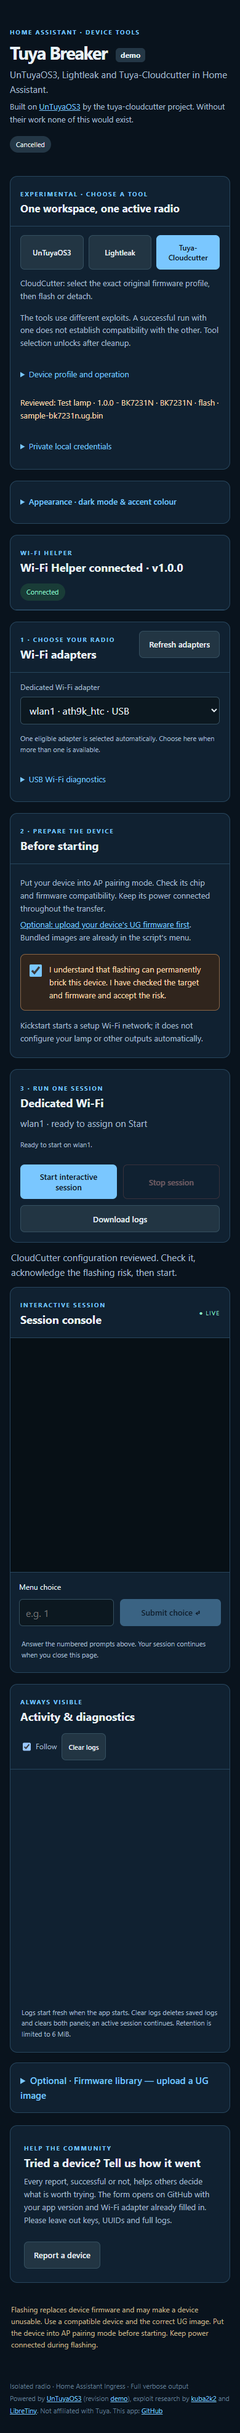
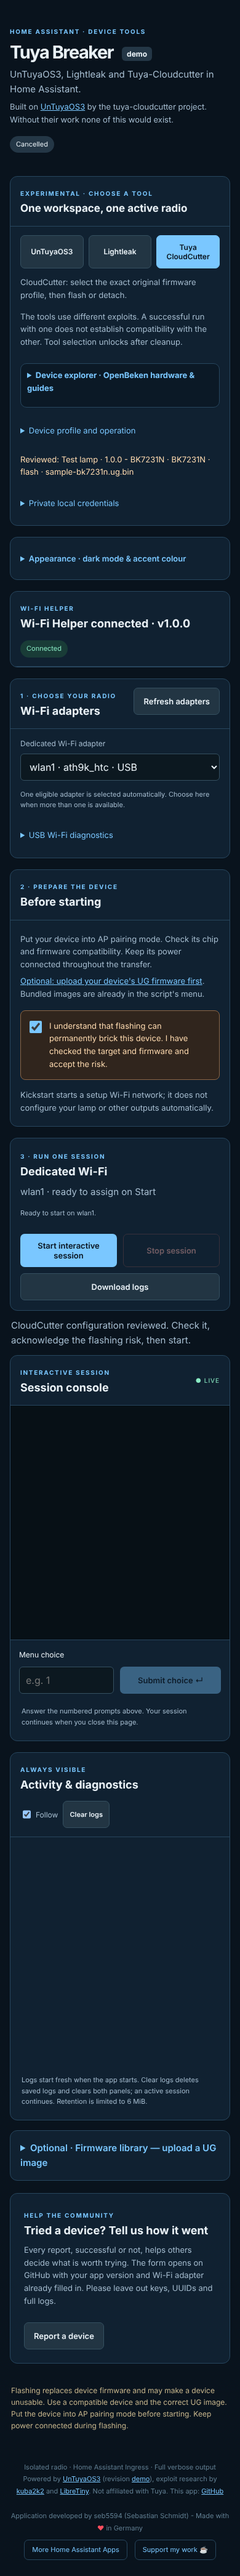
Switch to calendar versioning and unify the shared hardware explorer
- Version scheme moves from SemVer-style beta numbers to calendar
  versioning (YYYY.MM.DD, with an additive .2, .3, ... suffix for a
  same-day rebuild), starting at 2026.11.10.
- The OpenBeken hardware explorer is now a shared, always-visible
  reference panel instead of being nested only inside the CloudCutter
  tab, since chip/module identification is useful before choosing any
  of the three tools.
- "Find CloudCutter profiles" now switches to the CloudCutter tab by
  itself, reusing the existing tab-switch handler, instead of requiring
  a manual tab switch first.
- Remove a dead, overridden .tool-tabs CSS rule and align the
  CloudCutter tab label with the name used elsewhere in the app
  ("Tuya CloudCutter").
- Update the WebUI/Playwright check and refresh its screenshots for the
  new layout.

Verified: tools/sync_project.py --check, the full Python test suite
(116 tests, including the CloudCutter catalogue/controller tests),
tests/test_webui.cjs, and tools/check_breaker_ui.cjs at all three
breakpoints all pass.

Changed region(s): [[0.0308, 0.0, 0.9538, 0.5601], [0.0308, 0.809, 0.9231, 0.9957], [0.0308, 0.6223, 0.9538, 0.7468]]

diff --git a/tuya_breaker/app/static/index.html b/tuya_breaker/app/static/index.html
@@ -13,9 +13,26 @@
 <main>
 <section class="card tool-card"><div class="section-heading"><div><span class="eyebrow">EXPERIMENTAL · CHOOSE A TOOL</span><h2>One workspace, one active radio</h2></div></div>
 <div class="adapter-settings"><div class="tool-tabs" role="group" aria-label="Flashing tool">
-<button id="tool-untuyaos3" type="button" aria-pressed="true">UnTuyaOS3</button><button id="tool-lightleak" class="secondary" type="button" aria-pressed="false">Lightleak</button><button id="tool-cloudcutter" class="secondary" type="button" aria-pressed="false">Tuya-Cloudcutter</button></div>
+<button id="tool-untuyaos3" type="button" aria-pressed="true">UnTuyaOS3</button><button id="tool-lightleak" class="secondary" type="button" aria-pressed="false">Lightleak</button><button id="tool-cloudcutter" class="secondary" type="button" aria-pressed="false">Tuya CloudCutter</button></div>
 <p id="tool-description">UnTuyaOS3: use the established platform and firmware menus.</p>
 <p class="hint">The tools use different exploits. A successful run with one does not establish compatibility with the other. Tool selection unlocks after cleanup.</p>
+<details id="hardware-explorer" class="hardware-explorer"><summary>Device explorer · OpenBeken hardware & guides</summary>
+<div class="explorer-heading"><div><span class="eyebrow">COMMUNITY DEVICE KNOWLEDGE</span><h3>Identify the hardware first</h3><p>Find model numbers, modules, pin maps and teardown guides, whichever tool above you plan to use. A hardware entry is not a CloudCutter exploit profile.</p></div>
+<button id="ob-refresh" class="secondary" type="button">Update OpenBeken database</button></div>
+<div class="explorer-filters"><label>Search devices<input id="ob-search" type="search" placeholder="Action, LSC, model, module, keywords…" autocomplete="off"></label>
+<label>Chip<select id="ob-chip"><option value="">All chip families</option></select></label>
+<label class="explorer-check"><input id="ob-detailed" type="checkbox"> Detailed teardowns</label><label class="explorer-check"><input id="ob-template" type="checkbox"> Pin map available</label>
+<button id="ob-reset" class="secondary" type="button">Reset filters</button></div>
+<p id="ob-meta" class="hint">Database not loaded yet. Update it once; the cached list remains available offline.</p>
+<p id="ob-count" role="status" aria-live="polite"></p><div id="ob-results" class="device-grid"></div>
+<nav class="explorer-pages" aria-label="Device results pages"><button id="ob-previous" class="secondary" type="button" disabled>← Previous</button><span id="ob-page">Page 1</span><button id="ob-next" class="secondary" type="button" disabled>Next →</button></nav>
+<p class="explorer-credits">Device data: <a href="https://openbekeniot.github.io/webapp/devicesList.html" target="_blank" rel="noopener noreferrer">OpenBeken / openshwprojects</a> and the <a href="https://www.elektroda.com/rtvforum/forum507.html" target="_blank" rel="noopener noreferrer">Elektroda.com teardown community</a>. Thank you to the authors and contributors. Exploit profiles come separately from <a href="https://github.com/tuya-cloudcutter/tuya-cloudcutter" target="_blank" rel="noopener noreferrer">Tuya CloudCutter</a>.</p>
+<dialog id="ob-dialog" aria-labelledby="ob-dialog-title"><div class="dialog-heading"><h3 id="ob-dialog-title">Hardware reference</h3><button id="ob-close" class="secondary" type="button" autofocus>Close ×</button></div>
+<p id="ob-dialog-meta"></p><p class="reference-warning">Reference only. Match the exact hardware revision before using any pin map. This does not establish OTA exploit compatibility. Nothing here is applied to a device.</p>
+<pre id="ob-template-json" tabindex="0" aria-label="Read-only OpenBeken hardware template"></pre><button id="ob-copy" class="secondary" type="button">Copy reference JSON</button>
+<p class="hint">Original community data; configurations may be partial. Consult the linked teardown.</p></dialog>
+</details>
+
 <div id="lightleak-settings" hidden>
 <details id="ll-configuration" open><summary>Lightleak · chip, AP and flash backup</summary>
 <p><strong>Experimental. Lightleak setup writes target flash and can brick your device.</strong> It installs a Wi-Fi stager and erases/writes a payload sector before reading a 2 MiB dump. The dump contains secrets and payload changes. This mode does not install replacement firmware.</p>
@@ -36,23 +53,6 @@
 <div id="cloudcutter-settings" hidden>
 <details id="cc-configuration" open><summary>Device profile and operation</summary>
 <p><strong>CloudCutter needs an exact device/firmware profile.</strong> Check the original firmware version before removing the device from SmartLife. Patched firmware cannot be made vulnerable by selecting another profile.</p>
-<details id="hardware-explorer" class="hardware-explorer"><summary>Device explorer · OpenBeken hardware & guides</summary>
-<div class="explorer-heading"><div><span class="eyebrow">COMMUNITY DEVICE KNOWLEDGE</span><h3>Identify the hardware first</h3><p>Find model numbers, modules, pin maps and teardown guides. A hardware entry is not a CloudCutter exploit profile.</p></div>
-<button id="ob-refresh" class="secondary" type="button">Update OpenBeken database</button></div>
-<div class="explorer-filters"><label>Search devices<input id="ob-search" type="search" placeholder="Action, LSC, model, module, keywords…" autocomplete="off"></label>
-<label>Chip<select id="ob-chip"><option value="">All chip families</option></select></label>
-<label class="explorer-check"><input id="ob-detailed" type="checkbox"> Detailed teardowns</label><label class="explorer-check"><input id="ob-template" type="checkbox"> Pin map available</label>
-<button id="ob-reset" class="secondary" type="button">Reset filters</button></div>
-<p id="ob-meta" class="hint">Database not loaded yet. Update it once; the cached list remains available offline.</p>
-<p id="ob-count" role="status" aria-live="polite"></p><div id="ob-results" class="device-grid"></div>
-<nav class="explorer-pages" aria-label="Device results pages"><button id="ob-previous" class="secondary" type="button" disabled>← Previous</button><span id="ob-page">Page 1</span><button id="ob-next" class="secondary" type="button" disabled>Next →</button></nav>
-<p class="explorer-credits">Device data: <a href="https://openbekeniot.github.io/webapp/devicesList.html" target="_blank" rel="noopener noreferrer">OpenBeken / openshwprojects</a> and the <a href="https://www.elektroda.com/rtvforum/forum507.html" target="_blank" rel="noopener noreferrer">Elektroda.com teardown community</a>. Thank you to the authors and contributors. Exploit profiles come separately from <a href="https://github.com/tuya-cloudcutter/tuya-cloudcutter" target="_blank" rel="noopener noreferrer">Tuya CloudCutter</a>.</p>
-<dialog id="ob-dialog" aria-labelledby="ob-dialog-title"><div class="dialog-heading"><h3 id="ob-dialog-title">Hardware reference</h3><button id="ob-close" class="secondary" type="button" autofocus>Close ×</button></div>
-<p id="ob-dialog-meta"></p><p class="reference-warning">Reference only. Match the exact hardware revision before using any pin map. This does not establish OTA exploit compatibility. Nothing here is applied to a device.</p>
-<pre id="ob-template-json" tabindex="0" aria-label="Read-only OpenBeken hardware template"></pre><button id="ob-copy" class="secondary" type="button">Copy reference JSON</button>
-<p class="hint">Original community data; configurations may be partial. Consult the linked teardown.</p></dialog>
-</details>
-
 <button id="cc-refresh" class="secondary" type="button">Load / refresh official device catalogue</button>
 <details id="cc-device-picker" open><summary>1 · Find the exact device and original firmware</summary><div class="cc-picker-heading"><span class="eyebrow">1 · FIND YOUR EXACT DEVICE</span><h3>Device and original firmware</h3><p class="hint">Search the model and the firmware version shown in SmartLife. Similar hardware alone is not a match.</p></div>
 <div class="cc-filters"><div><label for="cc-search">Search model or firmware</label><input id="cc-search" type="search" placeholder="Brand, model, original firmware…" autocomplete="off"></div><div><label for="cc-brand">Brand</label><select id="cc-brand"><option value="">All brands</option></select></div></div>

diff --git a/tuya_breaker/app/static/style.css b/tuya_breaker/app/static/style.css
@@ -19,14 +19,14 @@ button,.button,input,select{min-height:44px}summary{min-height:44px;align-conten
 .log-actions button{min-height:44px}.follow{display:flex;align-items:center;gap:5px;min-height:44px}.follow input{min-height:20px}
 @media(max-width:600px){header{align-items:flex-start;flex-wrap:wrap}.version{display:inline-block}.section-heading,.adapter-settings,.preparation-body{padding:14px 16px}.toolbar,.firmware-card{padding:16px}.actions{width:100%}.actions>*{flex:1 1 140px}input,select{font-size:16px}.risk-check{font-size:13px}.log-actions{flex-wrap:wrap}#choice-form{padding:14px}#choice-form button{flex:1}pre{height:clamp(240px,45svh,380px);padding:14px}.firmware-card{margin-top:16px}.firmware-card form button{width:100%}}
 
-.tool-card{margin-bottom:18px}.tool-tabs{display:flex;gap:10px;flex-wrap:wrap;margin-bottom:12px}.tool-tabs>*{flex:1}.tool-card input,.tool-card select{display:block;width:100%;max-width:100%;margin:6px 0 14px}.tool-card label{display:block;font-size:13px;color:var(--muted);margin-top:12px}.tool-card p{font-size:13px}.tool-card .hint{padding:8px 0}.tool-card form{margin-top:14px}.tool-card form button{margin:8px 0}.tool-card #cc-review{color:#ffdbb0}.tool-tabs [aria-pressed=true]{border-color:var(--cyan)}
+.tool-card{margin-bottom:18px}.tool-card input,.tool-card select{display:block;width:100%;max-width:100%;margin:6px 0 14px}.tool-card label{display:block;font-size:13px;color:var(--muted);margin-top:12px}.tool-card p{font-size:13px}.tool-card .hint{padding:8px 0}.tool-card form{margin-top:14px}.tool-card form button{margin:8px 0}.tool-card #cc-review{color:#ffdbb0}.tool-tabs [aria-pressed=true]{border-color:var(--cyan)}
 @media(max-width:600px){.tool-card button,.tool-card .button{width:100%}.tool-tabs button{width:auto}.tool-card h2{font-size:17px}}
 :root{--cyan:#7ac7ff;--accent-fill:#7ac7ff;--bg:#09131d;--panel:#102131;--line:#27465e;--muted:#a6bdd0;--button-text:#09212b}
 button:not(.secondary):not(.danger),.button:not(.secondary){background:var(--accent-fill);color:var(--button-text)}
 button,.button{color:var(--button-text)}button.secondary,.button.secondary{color:var(--text)}button.danger{color:#ffb3ac}.risk-check input{min-height:20px}
 .appearance-card{padding:12px 16px;margin-bottom:18px}.appearance-card summary{font-weight:600}.appearance-card label{font-size:13px}.appearance-card input{width:52px;height:44px;vertical-align:middle;margin:0 10px}.appearance-card output{font:12px ui-monospace,monospace;margin-right:12px}.appearance-card .hint{padding:8px 0 0}
 
-.tool-tabs {display:grid;grid-template-columns:repeat(3,minmax(0,1fr));gap:.5rem}
+.tool-tabs {display:grid;grid-template-columns:repeat(3,minmax(0,1fr));gap:.5rem;margin-bottom:12px}
 .tool-tabs button {min-width:0;overflow-wrap:anywhere;font-size:clamp(.75rem,2.8vw,1rem);padding:.7rem .35rem}
 .ll-backup {border-top:1px solid var(--line);padding:1rem 0}
 .ll-backup .hint {overflow-wrap:anywhere}

diff --git a/tuya_breaker/ui/tools.html b/tuya_breaker/ui/tools.html
@@ -1,8 +1,9 @@
 <section class="card tool-card"><div class="section-heading"><div><span class="eyebrow">EXPERIMENTAL · CHOOSE A TOOL</span><h2>One workspace, one active radio</h2></div></div>
 <div class="adapter-settings"><div class="tool-tabs" role="group" aria-label="Flashing tool">
-<button id="tool-untuyaos3" type="button" aria-pressed="true">UnTuyaOS3</button><button id="tool-lightleak" class="secondary" type="button" aria-pressed="false">Lightleak</button><button id="tool-cloudcutter" class="secondary" type="button" aria-pressed="false">Tuya-Cloudcutter</button></div>
+<button id="tool-untuyaos3" type="button" aria-pressed="true">UnTuyaOS3</button><button id="tool-lightleak" class="secondary" type="button" aria-pressed="false">Lightleak</button><button id="tool-cloudcutter" class="secondary" type="button" aria-pressed="false">Tuya CloudCutter</button></div>
 <p id="tool-description">UnTuyaOS3: use the established platform and firmware menus.</p>
 <p class="hint">The tools use different exploits. A successful run with one does not establish compatibility with the other. Tool selection unlocks after cleanup.</p>
+<!-- HARDWARE_EXPLORER -->
 <div id="lightleak-settings" hidden>
 <details id="ll-configuration" open><summary>Lightleak · chip, AP and flash backup</summary>
 <p><strong>Experimental. Lightleak setup writes target flash and can brick your device.</strong> It installs a Wi-Fi stager and erases/writes a payload sector before reading a 2 MiB dump. The dump contains secrets and payload changes. This mode does not install replacement firmware.</p>
@@ -23,7 +24,6 @@
 <div id="cloudcutter-settings" hidden>
 <details id="cc-configuration" open><summary>Device profile and operation</summary>
 <p><strong>CloudCutter needs an exact device/firmware profile.</strong> Check the original firmware version before removing the device from SmartLife. Patched firmware cannot be made vulnerable by selecting another profile.</p>
-<!-- HARDWARE_EXPLORER -->
 <button id="cc-refresh" class="secondary" type="button">Load / refresh official device catalogue</button>
 <details id="cc-device-picker" open><summary>1 · Find the exact device and original firmware</summary><div class="cc-picker-heading"><span class="eyebrow">1 · FIND YOUR EXACT DEVICE</span><h3>Device and original firmware</h3><p class="hint">Search the model and the firmware version shown in SmartLife. Similar hardware alone is not a match.</p></div>
 <div class="cc-filters"><div><label for="cc-search">Search model or firmware</label><input id="cc-search" type="search" placeholder="Brand, model, original firmware…" autocomplete="off"></div><div><label for="cc-brand">Brand</label><select id="cc-brand"><option value="">All brands</option></select></div></div>

diff --git a/tuya_breaker/ui/style.css b/tuya_breaker/ui/style.css
@@ -1,11 +1,11 @@
-.tool-card{margin-bottom:18px}.tool-tabs{display:flex;gap:10px;flex-wrap:wrap;margin-bottom:12px}.tool-tabs>*{flex:1}.tool-card input,.tool-card select{display:block;width:100%;max-width:100%;margin:6px 0 14px}.tool-card label{display:block;font-size:13px;color:var(--muted);margin-top:12px}.tool-card p{font-size:13px}.tool-card .hint{padding:8px 0}.tool-card form{margin-top:14px}.tool-card form button{margin:8px 0}.tool-card #cc-review{color:#ffdbb0}.tool-tabs [aria-pressed=true]{border-color:var(--cyan)}
+.tool-card{margin-bottom:18px}.tool-card input,.tool-card select{display:block;width:100%;max-width:100%;margin:6px 0 14px}.tool-card label{display:block;font-size:13px;color:var(--muted);margin-top:12px}.tool-card p{font-size:13px}.tool-card .hint{padding:8px 0}.tool-card form{margin-top:14px}.tool-card form button{margin:8px 0}.tool-card #cc-review{color:#ffdbb0}.tool-tabs [aria-pressed=true]{border-color:var(--cyan)}
 @media(max-width:600px){.tool-card button,.tool-card .button{width:100%}.tool-tabs button{width:auto}.tool-card h2{font-size:17px}}
 :root{--cyan:#7ac7ff;--accent-fill:#7ac7ff;--bg:#09131d;--panel:#102131;--line:#27465e;--muted:#a6bdd0;--button-text:#09212b}
 button:not(.secondary):not(.danger),.button:not(.secondary){background:var(--accent-fill);color:var(--button-text)}
 button,.button{color:var(--button-text)}button.secondary,.button.secondary{color:var(--text)}button.danger{color:#ffb3ac}.risk-check input{min-height:20px}
 .appearance-card{padding:12px 16px;margin-bottom:18px}.appearance-card summary{font-weight:600}.appearance-card label{font-size:13px}.appearance-card input{width:52px;height:44px;vertical-align:middle;margin:0 10px}.appearance-card output{font:12px ui-monospace,monospace;margin-right:12px}.appearance-card .hint{padding:8px 0 0}
 
-.tool-tabs {display:grid;grid-template-columns:repeat(3,minmax(0,1fr));gap:.5rem}
+.tool-tabs {display:grid;grid-template-columns:repeat(3,minmax(0,1fr));gap:.5rem;margin-bottom:12px}
 .tool-tabs button {min-width:0;overflow-wrap:anywhere;font-size:clamp(.75rem,2.8vw,1rem);padding:.7rem .35rem}
 .ll-backup {border-top:1px solid var(--line);padding:1rem 0}
 .ll-backup .hint {overflow-wrap:anywhere}

diff --git a/tuya_breaker/app/static/hardware.js b/tuya_breaker/app/static/hardware.js
@@ -1,9 +1,10 @@
 "use strict";
-let hardwareDevices = [], hardwarePage = 0, hardwareTimer, hardwareBusy = false;
+let hardwareDevices = [], hardwarePage = 0, hardwareTimer, hardwareBusy = false, currentTool = "untuyaos3";
 const HARDWARE_PAGE_SIZE = 6;
 const previousStatus = window.onSessionStatus;
 window.onSessionStatus = (state, data) => {
   previousStatus(state, data);
+  currentTool = data.tool || "untuyaos3";
   hardwareBusy = ["running","assigning","cleaning","releasing","offline"].includes(state)
     || Boolean(data.adapter_busy || data.selection_locked || breakerPending || startPending);
   $("ob-refresh").disabled = hardwareBusy;
@@ -39,7 +40,12 @@ async function showHardware(device) {
 }
 async function findHardwareProfiles(device) {
   if (hardwareBusy) return;
+  // The hardware explorer is reachable from every tool; jump to CloudCutter the
+  // same way a manual tab click would, reusing that single switch-and-poll path.
+  if (currentTool !== "cloudcutter") await $("tool-cloudcutter").onclick();
+  if (currentTool !== "cloudcutter") return; // switch was blocked; its own handler already explained why
   if (!breakerDevices.length) await $("cc-refresh").onclick();
+  $("cc-device-picker").open = true;
   $("cc-search").value = device.model || device.name;
   $("cc-search").oninput();
   $("hardware-explorer").open = false;

diff --git a/tuya_breaker/ui/hardware.html b/tuya_breaker/ui/hardware.html
@@ -1,5 +1,5 @@
 <details id="hardware-explorer" class="hardware-explorer"><summary>Device explorer · OpenBeken hardware & guides</summary>
-<div class="explorer-heading"><div><span class="eyebrow">COMMUNITY DEVICE KNOWLEDGE</span><h3>Identify the hardware first</h3><p>Find model numbers, modules, pin maps and teardown guides. A hardware entry is not a CloudCutter exploit profile.</p></div>
+<div class="explorer-heading"><div><span class="eyebrow">COMMUNITY DEVICE KNOWLEDGE</span><h3>Identify the hardware first</h3><p>Find model numbers, modules, pin maps and teardown guides, whichever tool above you plan to use. A hardware entry is not a CloudCutter exploit profile.</p></div>
 <button id="ob-refresh" class="secondary" type="button">Update OpenBeken database</button></div>
 <div class="explorer-filters"><label>Search devices<input id="ob-search" type="search" placeholder="Action, LSC, model, module, keywords…" autocomplete="off"></label>
 <label>Chip<select id="ob-chip"><option value="">All chip families</option></select></label>

diff --git a/tuya_breaker/CHANGELOG.md b/tuya_breaker/CHANGELOG.md
@@ -1,5 +1,15 @@
 # Changelog
 
+## 2026.11.10
+
+- Switch versioning from SemVer-style beta numbers to calendar versioning (`YYYY.MM.DD`, with an
+  additive `.2`, `.3`, … suffix for a same-day rebuild). The three-tool workspace stays experimental.
+- Unify the three tool workspaces: the OpenBeken hardware explorer is now a shared, always-visible
+  reference panel instead of being nested only inside the CloudCutter tab, and "Find CloudCutter
+  profiles" now switches to the CloudCutter tab itself instead of requiring a manual switch first.
+- Minor WebUI cleanup: remove a dead, overridden `.tool-tabs` CSS rule and align the CloudCutter
+  tab label with its name used elsewhere in the app ("Tuya CloudCutter").
+
 ## 1.2.0-beta.5
 
 - Add the centered developer credit, app catalog link and support footer.
